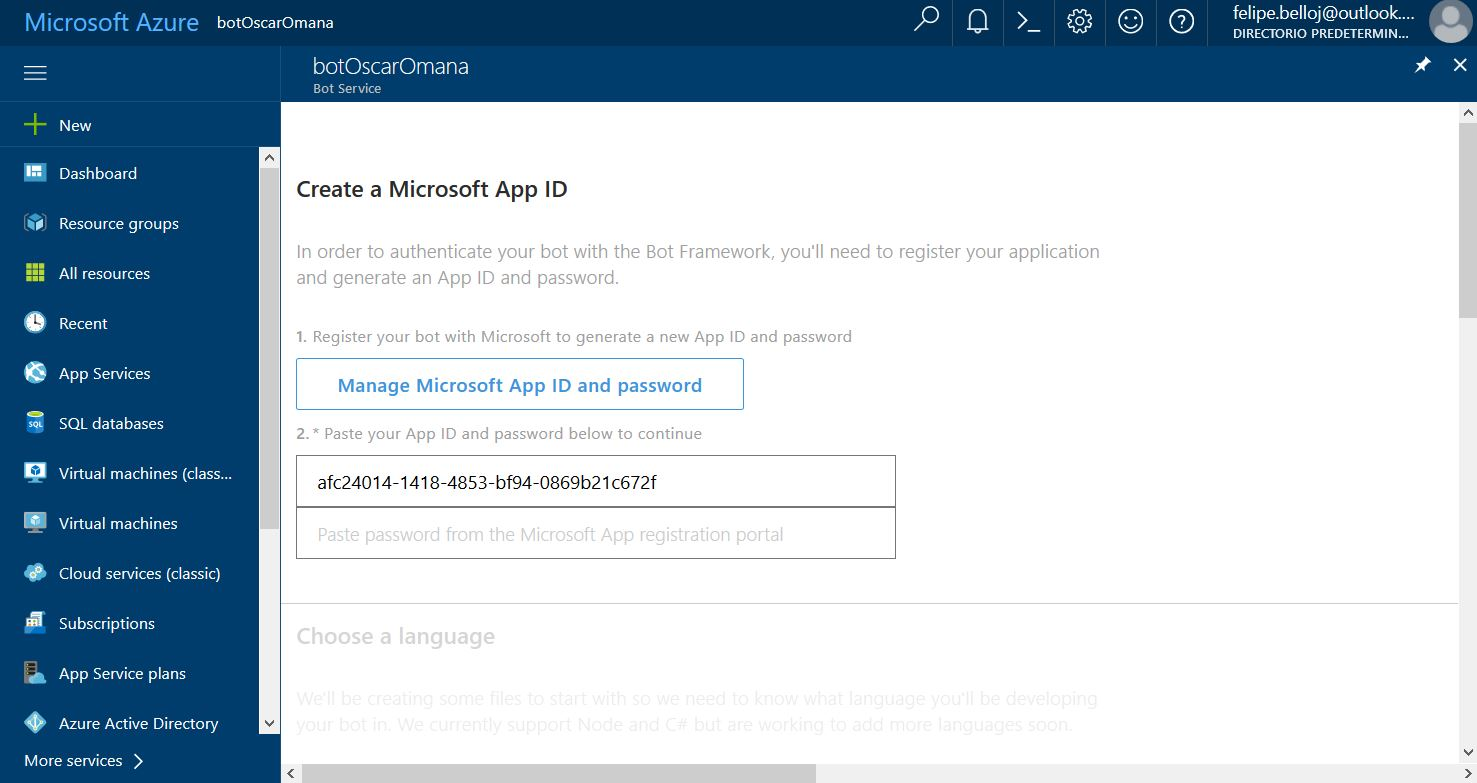
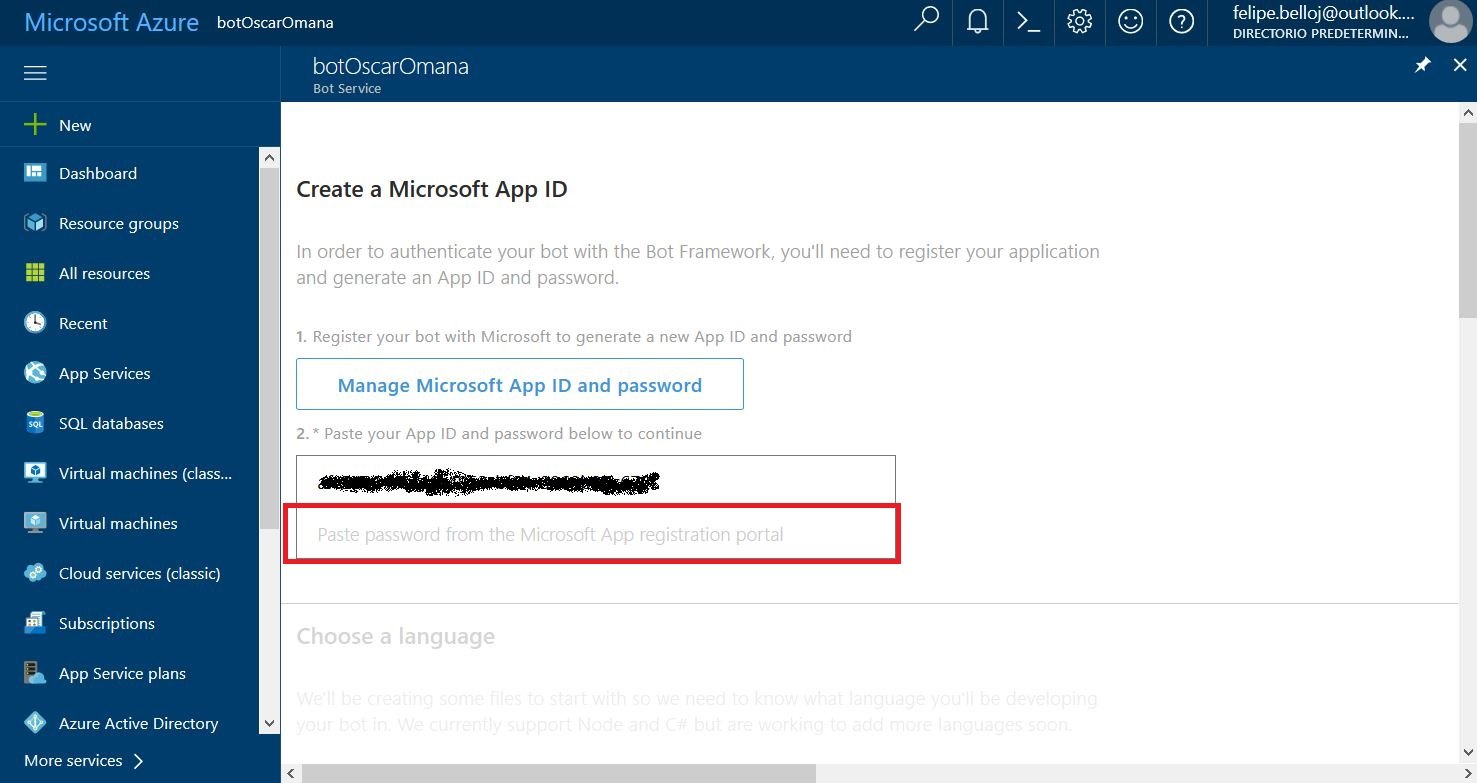
Commit 8.1.4
crear bot

Changed region(s): [[0.1869, 0.5824, 0.6229, 0.7356]]

diff --git a/Ejercicios/Azure Bot Service/README.md b/Ejercicios/Azure Bot Service/README.md
@@ -57,6 +57,14 @@ Aquí es muy importante que copies ese password ya que será la única vez que l
 
 Das clic en finalizar y regresar al Bot Framework 
 
-Ya en la ventana que de regresa vas a pegar ese password en el paso donde te lo indica 
+Ya en la ventana que te regresa vas a pegar ese password en el paso donde te lo indica 
+
+<img src="Imagenes/Capture6.png"/>
+
+Por último, eliges el lenguaje para tu Bot, en este caso será C# y para este ejemplo usaremos la plantilla “Basic” 
+Aceptamos los términos y condiciones (recuerda que las tienes que leer antes de crear el Bot “ajaa”)
+Y damos clic en el botón de Crear Bot.
+
+<img src="Imagenes/Capture7.png"/>
 
 
